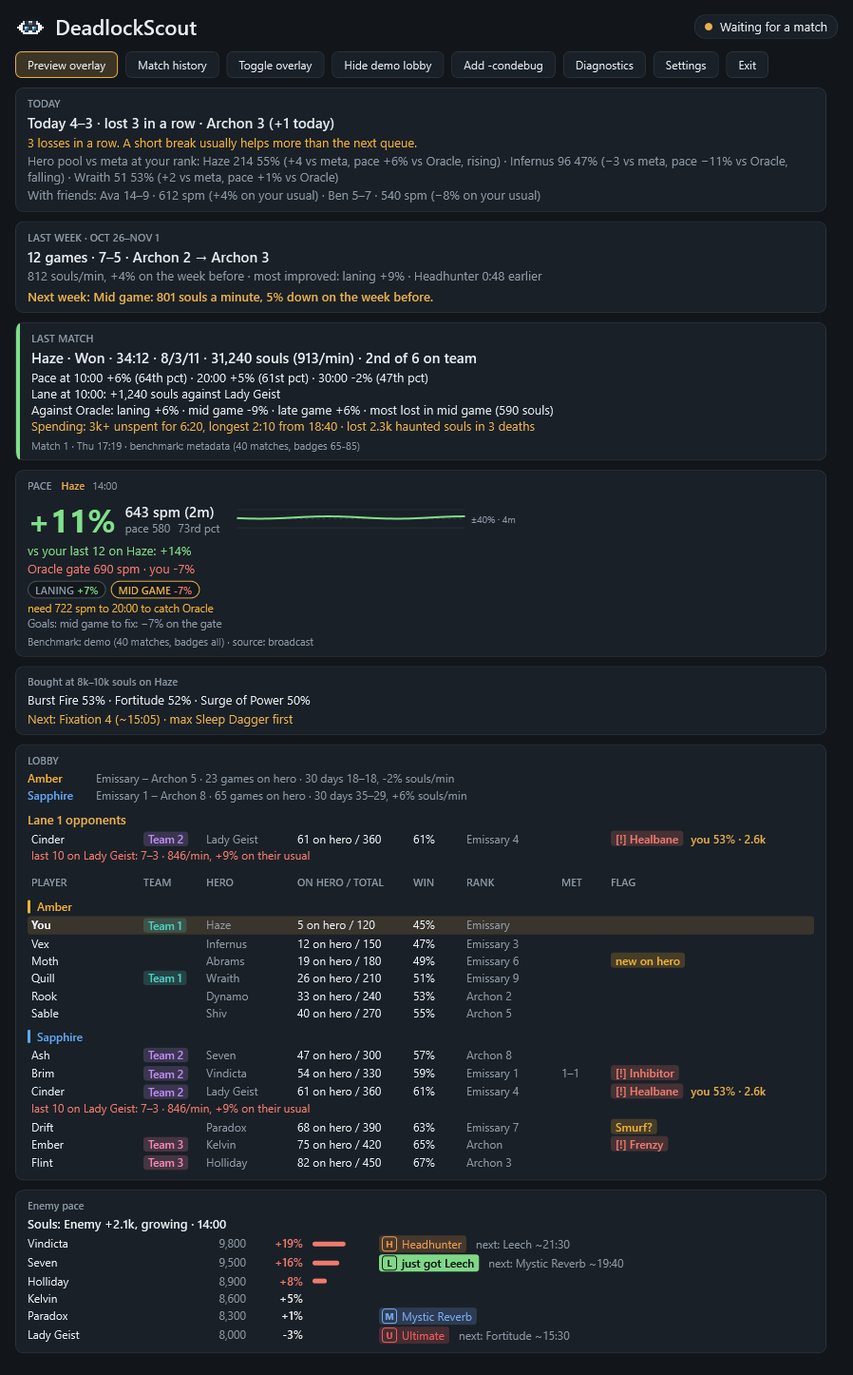
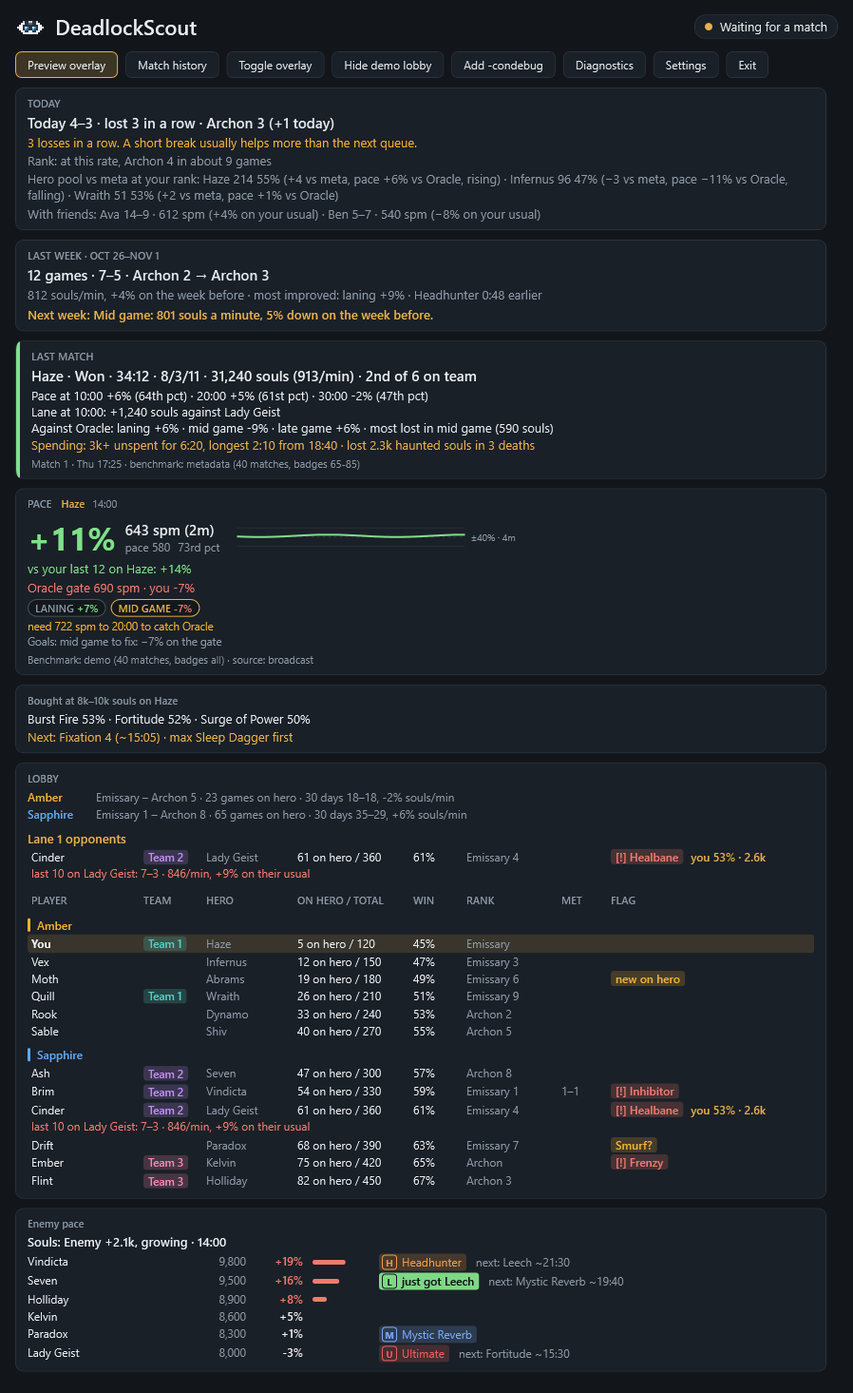
Session view: rank forecast from your last ranked games (#154)
* Session view: rank forecast from your last ranked games

The session view says where your last 20 ranked games point: "Rank: at
this rate, Archon 4 in about 9 games", "slipping, Archon 2 in about 12
games at this rate", or "holding steady at Archon 3". A least-squares
line through the badges on HistoryMath.BadgeIndex's ladder (six
subranks a tier); said from 8 ranked games, steady when it moves less
than one subrank over the window or would take more than 40 games. From
the match history the session view already has; computed, never stored.

Claude-Session: https://claude.ai/code/session_01LSDkBn23Na5vMSKWLtGadZ

* Rank forecast: name its enum RankDirection

Core.History already has a RankTrend (the match history's rank line),
so the app's demo could not tell the two apart and the build failed.
The forecast's direction is now RankDirection.

Claude-Session: https://claude.ai/code/session_01LSDkBn23Na5vMSKWLtGadZ

* Update app screenshots

* Update app screenshots

---------

diff --git a/src/DeadlockScout.App/Overlay/OverlayWindow.xaml b/src/DeadlockScout.App/Overlay/OverlayWindow.xaml
@@ -439,6 +439,8 @@
                     <TextBlock Text="{Binding Session.Today}" FontSize="15" FontWeight="SemiBold"/>
                     <TextBlock Text="{Binding Session.Nudge}" FontSize="13" Foreground="{StaticResource Amber}" TextWrapping="Wrap" Margin="0,2,0,0"
                                Visibility="{Binding Session.Nudge, Converter={x:Static vm:Converters.VisibleIfNotEmpty}}"/>
+                    <TextBlock Text="{Binding Session.Forecast}" FontSize="12" Foreground="{StaticResource Muted}" TextWrapping="Wrap" Margin="0,2,0,0"
+                               Visibility="{Binding Session.Forecast, Converter={x:Static vm:Converters.VisibleIfNotEmpty}}"/>
                     <TextBlock Text="{Binding Session.HeroPool}" FontSize="12" Foreground="{StaticResource Muted}" TextWrapping="Wrap" Margin="0,2,0,0"
                                Visibility="{Binding Session.HeroPool, Converter={x:Static vm:Converters.VisibleIfNotEmpty}}"/>
                     <TextBlock Text="{Binding Session.Teammates}" FontSize="12" Foreground="{StaticResource Muted}" TextWrapping="Wrap" Margin="0,2,0,0"

diff --git a/src/DeadlockScout.App/MainWindow.xaml b/src/DeadlockScout.App/MainWindow.xaml
@@ -134,6 +134,8 @@
                         <TextBlock Text="{Binding Session.Today}" FontSize="15" FontWeight="SemiBold"/>
                         <TextBlock Text="{Binding Session.Nudge}" Foreground="{StaticResource Amber}" TextWrapping="Wrap" Margin="0,2,0,0"
                                    Visibility="{Binding Session.Nudge, Converter={x:Static vm:Converters.VisibleIfNotEmpty}}"/>
+                        <TextBlock Text="{Binding Session.Forecast}" Foreground="{StaticResource Muted}" TextWrapping="Wrap" Margin="0,2,0,0"
+                                   Visibility="{Binding Session.Forecast, Converter={x:Static vm:Converters.VisibleIfNotEmpty}}"/>
                         <TextBlock Text="{Binding Session.HeroPool}" Foreground="{StaticResource Muted}" TextWrapping="Wrap" Margin="0,2,0,0"
                                    Visibility="{Binding Session.HeroPool, Converter={x:Static vm:Converters.VisibleIfNotEmpty}}"/>
                         <TextBlock Text="{Binding Session.Teammates}" Foreground="{StaticResource Muted}" TextWrapping="Wrap" Margin="0,2,0,0"

diff --git a/src/DeadlockScout.Core/Session/RankForecast.cs b/src/DeadlockScout.Core/Session/RankForecast.cs
@@ -1,0 +1,61 @@
+using DeadlockScout.Core.History;
+using DeadlockScout.Core.Models;
+
+namespace DeadlockScout.Core.Session;
+
+/// <summary>Which way your rank has been going over your recent ranked games.</summary>
+public enum RankDirection { Rising, Steady, Falling }
+
+/// <summary>
+/// Where your last ranked games point: the badge now, the next subrank up (or down) and about how many games away at
+/// the recent rate. <see cref="Games"/> is null when steady.
+/// </summary>
+public sealed record RankForecast(int Badge, RankDirection Trend, int? NextBadge, int? Games, int RankedGames);
+
+/// <summary>
+/// The session view's rank forecast: a straight line through your last <see cref="Window"/> ranked games' badges on one
+/// ladder (<see cref="HistoryMath.BadgeIndex"/>, six subranks a tier), and how many games it takes that line to gain or
+/// lose one subrank. Steady when it moves less than one subrank over the window, or would take more than
+/// <see cref="MaxGames"/> games. Never a promise; a computed value, never stored. Pure, so tested.
+/// </summary>
+public static class RankForecasting
+{
+    public const int Window = 20;
+    /// <summary>Ranked games needed before anything is said.</summary>
+    public const int MinGames = 8;
+    public const int MaxGames = 40;
+
+    public static RankForecast? From(IReadOnlyList<MatchHistoryEntry> history)
+    {
+        var ranked = history.Where(h => h.RankedBadge is > 0)
+            .OrderByDescending(h => h.StartTime).ThenByDescending(h => h.MatchId)
+            .Take(Window).Reverse().ToList();                      // oldest first
+        if (ranked.Count < MinGames) return null;
+        var y = ranked.Select(h => (double)HistoryMath.BadgeIndex(h.RankedBadge!.Value)).ToList();
+        int n = y.Count;
+        double xMean = (n - 1) / 2.0, yMean = y.Average();
+        double sxy = 0, sxx = 0;
+        for (int i = 0; i < n; i++) { sxy += (i - xMean) * (y[i] - yMean); sxx += (i - xMean) * (i - xMean); }
+        double slope = sxx > 0 ? sxy / sxx : 0;                    // subranks a game
+        int badge = ranked[^1].RankedBadge!.Value, index = HistoryMath.BadgeIndex(badge);
+
+        if (Math.Abs(slope) * Window < 1) return new RankForecast(badge, RankDirection.Steady, null, null, n);
+        int games = (int)Math.Ceiling(1 / Math.Abs(slope));
+        if (games > MaxGames) return new RankForecast(badge, RankDirection.Steady, null, null, n);
+        bool up = slope > 0;
+        int next = up ? index + 1 : index - 1;
+        if (next < 1) return new RankForecast(badge, RankDirection.Steady, null, null, n);
+        return new RankForecast(badge, up ? RankDirection.Rising : RankDirection.Falling, FromIndex(next), games, n);
+    }
+
+    /// <summary>The badge at a ladder position: the inverse of <see cref="HistoryMath.BadgeIndex"/>.</summary>
+    public static int FromIndex(int index) => index <= 0 ? 0 : ((index - 1) / 6 + 1) * 10 + (index - 1) % 6 + 1;
+
+    /// <summary>"At this rate, Archon 4 in about 9 games", with <paramref name="rank"/> naming a badge.</summary>
+    public static string Text(RankForecast f, Func<int, string> rank) => f.Trend switch
+    {
+        RankDirection.Rising => $"Rank: at this rate, {rank(f.NextBadge!.Value)} in about {f.Games} game{(f.Games == 1 ? "" : "s")}",
+        RankDirection.Falling => $"Rank: slipping, {rank(f.NextBadge!.Value)} in about {f.Games} game{(f.Games == 1 ? "" : "s")} at this rate",
+        _ => $"Rank: holding steady at {rank(f.Badge)} over your last {f.RankedGames} ranked games",
+    };
+}

diff --git a/tests/DeadlockScout.Tests/Core/SessionTests.cs b/tests/DeadlockScout.Tests/Core/SessionTests.cs
@@ -252,4 +252,37 @@ public class SessionTests
             new ApiClientTests.StaticOptions(new ScoutSettings { Session = new SessionSettings { Teammates = 0 } }), Zone);
         Assert.Empty((await off.RefreshAsync(1000, default))!.Teammates!);
     }
+
+    private static IReadOnlyList<MatchHistoryEntry> Ranked(params int[] badgesOldestFirst)
+        => badgesOldestFirst.Select((b, i) => History[0] with
+        {
+            MatchId = 1000 + i, RankedBadge = b, StartTime = DateTimeOffset.Parse("2026-10-01T20:00Z").AddHours(i),
+        }).ToList();
+
+    [Fact]
+    public void Rank_forecast_follows_the_last_ranked_games_line()
+    {
+        // Archon 1 → Archon 3 over 20 games (seven, seven, then six games at each): about one subrank every eight to ten games.
+        var rising = RankForecasting.From(Ranked(Enumerable.Repeat(71, 7).Concat(Enumerable.Repeat(72, 7)).Concat(Enumerable.Repeat(73, 6)).ToArray()))!;
+        Assert.Equal(RankDirection.Rising, rising.Trend);
+        Assert.Equal(73, rising.Badge);
+        Assert.Equal(74, rising.NextBadge);
+        Assert.InRange(rising.Games!.Value, 7, 11);
+        Assert.StartsWith("Rank: at this rate, B74 in about", RankForecasting.Text(rising, b => $"B{b}"));
+
+        var steady = RankForecasting.From(Ranked(73, 74, 73, 73, 74, 73, 73, 74, 73, 73))!;
+        Assert.Equal(RankDirection.Steady, steady.Trend);
+        Assert.Null(steady.Games);
+        Assert.Equal("Rank: holding steady at B73 over your last 10 ranked games", RankForecasting.Text(steady, b => $"B{b}"));
+
+        var falling = RankForecasting.From(Ranked(81, 76, 75, 74, 73, 72, 71, 66))!;  // across a tier boundary
+        Assert.Equal(RankDirection.Falling, falling.Trend);
+        Assert.Equal(65, falling.NextBadge);
+        Assert.Equal(1, falling.Games);
+
+        Assert.Null(RankForecasting.From(Ranked(73, 74, 75)));                      // too few ranked games
+        Assert.Null(RankForecasting.From(History.Select(h => h with { RankedBadge = null }).ToList()));
+        Assert.Equal(61, RankForecasting.FromIndex(DeadlockScout.Core.History.HistoryMath.BadgeIndex(61)));
+        Assert.Equal(76, RankForecasting.FromIndex(DeadlockScout.Core.History.HistoryMath.BadgeIndex(76)));
+    }
 }

diff --git a/src/DeadlockScout.App/Services/DemoLobby.cs b/src/DeadlockScout.App/Services/DemoLobby.cs
@@ -139,7 +139,9 @@ public static class DemoLobby
                 new HeroPoolRow(7, 51, 27, 0.505, new HeroPace(3, 0.01, null, "Oracle")),
             }, new RankBracket(63, 83),
             // Two made-up friends: one you farm better with, one you farm worse with.
-            new[] { new TeammateRow(1, "Ava", 23, 14, 612, 0.04), new TeammateRow(2, "Ben", 12, 5, 540, -0.08) }), assets, demo: true);
+            new[] { new TeammateRow(1, "Ava", 23, 14, 612, 0.04), new TeammateRow(2, "Ben", 12, 5, 540, -0.08) },
+            // Climbing: Archon 3 now, Archon 4 about nine games away at the last twenty ranked games' rate.
+            new RankForecast(73, RankDirection.Rising, 74, 9, 20)), assets, demo: true);
         // Last week, made up: a winning week with a rank up, laning and Headhunter better than the week before, and
         // mid game the thing to work on.
         state.SetWeekly(new WeeklyReport(DateOnly.FromDateTime(WeeklySummary.LastWeekStart(DateTimeOffset.Now, TimeZoneInfo.Local).Date),

diff --git a/src/DeadlockScout.Core/Session/SessionService.cs b/src/DeadlockScout.Core/Session/SessionService.cs
@@ -11,7 +11,7 @@ namespace DeadlockScout.Core.Session;
 
 /// <summary>What the session view shows.</summary>
 public sealed record SessionView(SessionSummary Today, string? Nudge, IReadOnlyList<HeroPoolRow> HeroPool, RankBracket Bracket,
-                                 IReadOnlyList<TeammateRow>? Teammates = null);
+                                 IReadOnlyList<TeammateRow>? Teammates = null, RankForecast? Forecast = null);
 
 /// <summary>
 /// Builds the session view from your match history, your per-hero totals and the bracket's hero meta. Every source is
@@ -94,7 +94,7 @@ public sealed class SessionService
             catch (OperationCanceledException) when (ct.IsCancellationRequested) { throw; }
             catch (Exception ex) { _log.LogDebug(ex, "Teammate record unavailable"); }
 
-        return new SessionView(today, nudge, pool, bracket, mates);
+        return new SessionView(today, nudge, pool, bracket, mates, RankForecasting.From(history));
     }
 
     /// <summary>

diff --git a/src/DeadlockScout.App/ViewModels/PanelViewModels.cs b/src/DeadlockScout.App/ViewModels/PanelViewModels.cs
@@ -188,6 +188,9 @@ public sealed class SessionViewModel : ObservableObject
     public string HeroPool { get => _heroPool; set => Set(ref _heroPool, value); }
     /// <summary>"With friends: Ava 14–9 · 612 spm (+4% on your usual) · ...", or empty.</summary>
     public string Teammates { get => _teammates; set => Set(ref _teammates, value); }
+    /// <summary>"Rank: at this rate, Archon 4 in about 9 games", or empty without enough ranked games.</summary>
+    public string Forecast { get => _forecast; set => Set(ref _forecast, value); }
+    private string _forecast = "";
     private string _teammates = "";
     public bool HasData { get => _hasData; set => Set(ref _hasData, value); }
 }

diff --git a/src/DeadlockScout.App/ViewModels/OverlayState.cs b/src/DeadlockScout.App/ViewModels/OverlayState.cs
@@ -270,6 +270,7 @@ public sealed class OverlayState
             if (SessionMath.PaceText(h.Pace) is { } pace) notes.Add(pace);   // "pace −6% vs Oracle, falling"
             return $"{assets.HeroName(h.HeroId)} {Format.Count(h.Matches)} {Format.Pct(h.WinRate)}" + (notes.Count > 0 ? $" ({string.Join(", ", notes)})" : "");
         }));
+        Session.Forecast = v.Forecast is { } f ? RankForecasting.Text(f, b => Format.Rank(b)) : "";
         Session.Teammates = v.Teammates is { Count: > 0 } mates ? "With friends: " + string.Join(" · ", mates.Select(SessionMath.TeammateText)) : "";
         Session.HasData = true;
     }

diff --git a/docs/features.md b/docs/features.md
@@ -14,7 +14,7 @@ window.
 - **Real-time souls by OCR** (M6, opt in): draw boxes over your soul count and the match clock, and the built-in Windows OCR reads them once a second, so your pace no longer lags the broadcast by a minute. The HUD's counter is your unspent souls, so the app adds the price of the items the broadcast says you hold, and of anything you bought since (a drop of about one item's price, read twice), to make it your net worth, which is what the pace curves count (0.3); haunted souls (unsecured: spendable, lost if you die), shown in a smaller line under the count, are read and added to your unspent souls, and the "SOULS" label beside the count is left out (0.3.1); Diagnostics' "OCR net worth" line says how close that came to the broadcast's once it caught up. While you are dead the game shows a teammate's souls in your HUD's place; those readings are held back (up to two minutes by the PC's clock, so a misread match clock cannot cut the hold short) and dropped, so cycling through teammates no longer moves your souls per minute. The clock read off the HUD has to follow the last good one (never backwards, never further ahead than the real time since), so a misread clock ("22:52" for 12:52) never places your souls at the wrong time: one digit off, it is put right to the clock that was due (0.3.3; OCR mixes up 9 and 0, 7 and 3, 1 and 2), and further off its whole reading is dropped; the log counts the clock readings ignored. **Use the preset boxes** (0.4) fills the boxes not drawn yet with where the souls count and the clock sit on a window of the game's shape, measured on a 16:9 screen (and marked "estimated" for other shapes, which assume the HUD keeps its distance from the left edge and the centre); a box you drew is never replaced, and the preview shows whether the preset fits. **The boxes follow the game window** (0.5): the tool saves the window size they were drawn on, and when the game later runs in a window of another shape (a new monitor, a resolution change) they are moved by the same rule before every read, and the tray says once "OCR boxes moved" with a click to the calibration tool to check them; the tool shows them where they now read. The same shape at another resolution needs nothing, since boxes are fractions of the window; boxes saved before 0.5 carry no size and are used as they are until saved again. The calibration tool reads the selected box live and says what is wrong with it: red when the reading is not a number (or a clock), gold when the box also reads something besides the number ("768 9": a stray glyph) or when its readings jump in a way the game never does (768 then 7,689: the soul icon read as a digit now and then), blue with "steady" when it reads cleanly. **Glyph reader** (0.3): each steady reading also teaches the app the HUD's digits, and once it knows all ten it reads the souls and the clock itself, a few pixels' comparison instead of a full OCR engine, asking Windows OCR only for a box it cannot read clearly (so with clean boxes Windows OCR never even loads). The clock and the souls count are drawn in different fonts, so each box learns its own digits (0.3.1): keep the match clock selected in the tool for ten seconds or so while it ticks and it learns the clock's; the souls count learns its own as your souls change, in the tool or during a match from readings that pass the app's checks. The tool's line under the reading says what the selected box still misses, and **Teach this box again** under it forgets that box's glyphs to learn them afresh (after a patch changed the HUD font) (0.3.3). During a match, a box that reads nothing for 45 s while the game is in front (drawn wrong, or the HUD moved) is named once in the tray (0.3.3); a click opens the calibration tool. The souls box's preview outlines what is read (0.3.3): the count in blue, the soul icon in grey once the glyph reader has learned it (an extra glyph left of the number that the readings never include; from then on it is cut off before every read, so the box may start at the icon), and haunted souls in red. Diagnostics shows how many reads it answers, and asks for a recalibration when most of them fall back (a patch changed the HUD font). `ocr.glyphReader` in Settings → OCR turns it off. The enemy scoreboard boxes of earlier versions are gone (0.4.0): nothing read them, and the scoreboard shows souls only to the thousand ("11k"), where the enemy pace board already has every enemy's exact souls from the broadcast. Only those boxes are ever captured, never the rest of the screen, and nothing while OCR is off. Needs Windows 10 2004 or later and a Windows language with OCR support (English is).
 - **Post-match report**: result, K/D/A, souls per minute, where you ranked on your team, your pace against the benchmark at 10, 20 and 30 minutes, how your lane went, and each phase against the rank above yours ("Against Oracle: laning +6% · mid game −9% · late game +6% · most lost in mid game"), shown in the main window and as a tray notice once deadlock-api has the match. Replay salts from your Steam cache are sent to deadlock-api automatically (once per match; `ingest.autoSubmitSalts`) so your matches get on record; they land in Steam's cache when you open a match in Deadlock's in-game match history, and **Send my matches to deadlock-api** in the match history sends them at once and says what it found (Diagnostics shows the last scan).
 - **Match history**: your last 20 games with your rank over 30 days, win rate, KDA, main heroes and the last 15 results, then a card per game (result, hero, K/D/A, final items, souls and souls per minute, last hits, where your souls ranked on your team, both teams). Each card puts your total souls beside the K/D/A. Open a game for its **soul timeline** (your souls through the match, with every item you bought marked where you bought it, coloured by slot, and a dashed **rank gate**: the average souls on that hero of a rank you pick from a drop-down, Eternus down to Alchemist, starting on the tier above yours, with how far above or below it you finished, split into laning, mid game and late game chips; the timeline marks the three phases) and its **item purchases** in order, sold ones included. An **item timings** card lists the items you buy most with your average buy time against the rank gate's ("Headhunter 13:58 · Oracle 12:07 · +1:51"), and names the item furthest behind; each purchase on an opened game shows the rank's time and your gap too. A **phases** card pools laning (0–10 min), mid game (10–20) and late game (20+) over the page's games against the rank gate: your souls per minute and the rank's in each, how many souls a game you are behind or ahead, and which phase costs you the most. Above the cards, **trends** over your last 20, 50 or 100 games, for all heroes or one: rolling win rate and souls per minute (each game a dot coloured by result), the older half against the newer half for win rate, souls per minute and KDA, and a row per hero (games, W–L, win rate, KDA, souls per minute, last played), all from the history already fetched. **Soul sources**: an opened game lists where its souls came from (troopers, jungle, kills, objectives, the rest, and what you lost on death), each against the rank gate, and a card over the page names the source that costs you the most souls a game ("Troopers cost you the most: 1.2k souls a game behind Oracle"). **Weekly summary**: a "last week" card in the main window sets your last full week against the week before (games, record, rank change, souls per minute, the phase and item that improved most) and names one thing to work on next week. **Goals**: set your own targets in the match history (laning pace by 10:00, at most so many deaths in laning, a phase to fix against the rank gate); every game is marked hit or missed, and the card shows each target's hit rate over your last 20 games with a dot per game. During a match (0.3) the pace strip checks them live under the phase chips: "Goals: on track for 420 spm by 10:00 · one laning death left" (or the pace the rest of laning needs), then, while the phase you chose to fix is on, "mid game to fix: −7% on the gate". Your deaths come from the broadcast; not while spectating; `overlay.panels.liveGoals` turns it off. **Unspent souls** (0.3): from 3,000 souls not spent (Settings → Overlay, `coaching.unspentSouls`; 0 turns it off) the pace strip says "3.4k unspent: spend before you fight", live from the HUD's counter with OCR on, else from the broadcast's net worth less the items held, with its game time since it is about 35 s late. **Haunted souls at risk** (0.3.3): haunted souls are lost if you die, so from 1,000 of them (`coaching.hauntedSouls`, read by OCR) the line adds "1.1k of it haunted, lost if you die", or says "1.2k haunted souls: lost if you die, spend or secure them" on its own. **Souls lost at a death** (0.3.3): when the haunted line vanishes and your unspent souls fall by about as much, a death took them, and the pace strip says "Died at 14:20: lost 1,051 haunted souls" for half a minute (OCR only). **Spending recap** (0.3.3): the last match's card adds "Spending: 3k+ unspent for 6:20, longest 2:10 from 18:40 · lost 2.3k haunted souls in 3 deaths", from that match's soul readings. **Death review**: each death on an opened game with the souls you were carrying unspent (red at 3k or more) and a cross on the soul timeline, the souls the rank gate gained while you were dead, and a card over the page ("Spend before you fight: 9 of 24 deaths came with 3k or more souls unspent"). **Counter notes**: an opened game lists each enemy hero with their counter items for the hero you played (the same measured items as the scout list's [!] tags, up to three, each marked bought or not in that game), and a **heroes that beat you** card names the enemy heroes you lose to most over the page (your W–L with them in the enemy line-up) with their counter items. One cached call per hero pair, made when a game is first opened. One bulk call fetches the games not seen before; a finished game is cached for good. **Processing cards**: a game you just played shows at the top straight away (hero, when, roughly how long), even before deadlock-api lists it in your history, which can take hours; it becomes a full card as soon as the API has the match, and the post-match follow-up asks deadlock-api to fetch it from Steam twice (8 and 60 minutes after the match) when nobody else has sent it. From the main window or the tray.
-- **Session view**: today's wins and losses, your streak, how your rank moved, a nudge to take a break after three losses in a row or, from 0.4, three games today all under the rank gate's pace (`session.paceSlideNudge`; each game's souls against the gate's at its length, any hero, games of ten minutes or more), said once a session in the tray too, between matches only (`session.nudgeInTray`), the **teammate record** (0.4): the three friends you queued with most, with your record together and your souls per minute in those games against your usual ("With friends: Ava 14–9 · 612 spm (+4% on your usual)"; `session.teammates`, 0 turns it off; from `mate-stats` with its party filter and your match history, and each friend's Steam display name, nothing else of their profile, cached a week), and your most played heroes against their meta win rate at your rank. Each hero also gets its **pace against the rank gate** (0.4): your last ten games of ten minutes or more on it, each game's souls against what the gate's players have at that game's length, averaged, with the trend of the newer games against the older ones ("Abrams 96 47% (−1 vs meta, pace −11% vs Oracle, falling)"), so a hero that wins about as often as the meta but farms well under the gate shows. The gate's curves come from the same cached call as the overlay's gate line. In the overlay only outside a match, and in the main window.
+- **Session view**: today's wins and losses, your streak, how your rank moved, a **rank forecast** (0.5: a line through your last 20 ranked games' badges, "Rank: at this rate, Archon 4 in about 9 games", "slipping" or "holding steady", only from 8 ranked games and never beyond 40 games out; a trend, not a promise), a nudge to take a break after three losses in a row or, from 0.4, three games today all under the rank gate's pace (`session.paceSlideNudge`; each game's souls against the gate's at its length, any hero, games of ten minutes or more), said once a session in the tray too, between matches only (`session.nudgeInTray`), the **teammate record** (0.4): the three friends you queued with most, with your record together and your souls per minute in those games against your usual ("With friends: Ava 14–9 · 612 spm (+4% on your usual)"; `session.teammates`, 0 turns it off; from `mate-stats` with its party filter and your match history, and each friend's Steam display name, nothing else of their profile, cached a week), and your most played heroes against their meta win rate at your rank. Each hero also gets its **pace against the rank gate** (0.4): your last ten games of ten minutes or more on it, each game's souls against what the gate's players have at that game's length, averaged, with the trend of the newer games against the older ones ("Abrams 96 47% (−1 vs meta, pace −11% vs Oracle, falling)"), so a hero that wins about as often as the meta but farms well under the gate shows. The gate's curves come from the same cached call as the overlay's gate line. In the overlay only outside a match, and in the main window.
 - **Benchmarks ready at match start**: between matches the app prefetches the accurate and personal pace curves for the heroes you play most.
 - **Team souls lead** (0.3): at the top of the enemy pace board, one line with both teams' souls from the broadcast and how the gap moved over the last three minutes ("Souls: Enemy +2.1k, growing · 14:00"; "closing" when the trailing team gains, "steady" within 500), so a fight or an objective that swung the game shows. As late as everything from the broadcast, so it carries its game time; shown once every player has been seen; spectating it names Amber or Sapphire. `overlay.panels.teamLead` turns it off.
 - **Enemy pace board and lane card**, with **power-spike alerts**: when an enemy buys a 6,400-soul item, one of the items that lift their hero's win rate most at your rank, or unlocks their ultimate, their row flashes "just got Leech" for 30 seconds and then keeps the item as a chip with its icon. Beside it, **what they usually buy next**: the big item each enemy buys in at least half of their games on that hero, with their usual time ("next: Boundless Spirit ~34:08"), until they have it (hover for their whole usual order). One analytics call per enemy, cached a day; `overlay.panels.enemyTendencies` turns it off. Items come from the Direct live feed (the hosted feed has none); `overlay.panels.spikes` turns it off (see the milestones in [`docs/architecture-seed.md`](architecture-seed.md)).

diff --git a/docs/roadmap.md b/docs/roadmap.md
@@ -360,9 +360,11 @@ The overlay and its setup:
 
 Between matches:
 
-- [ ] Rank forecast: from the ranked badge and its change in your match history, the session view says where your last
+- [x] Rank forecast: from the ranked badge and its change in your match history, the session view says where your last
   20 ranked games point ("at this rate, Archon 4 in about 9 games", or "holding steady at Archon 3"), only with enough
-  ranked games to say it, and never as a promise. A computed value, never stored.
+  ranked games to say it, and never as a promise. A computed value, never stored. *Nov 5: `Session/RankForecast`, a
+  least-squares line through the badges on `HistoryMath.BadgeIndex`'s ladder; from 8 ranked games, steady under one
+  subrank over the window or beyond 40 games.*
 - [ ] History filters: the match history window filters its games by hero, ranked only, or games with one of the
   friends from the teammate record, and its header (win rate, KDA, trends, the soul timeline's choice) is recomputed
   for the filtered games. The filter is a view; nothing is fetched again.
